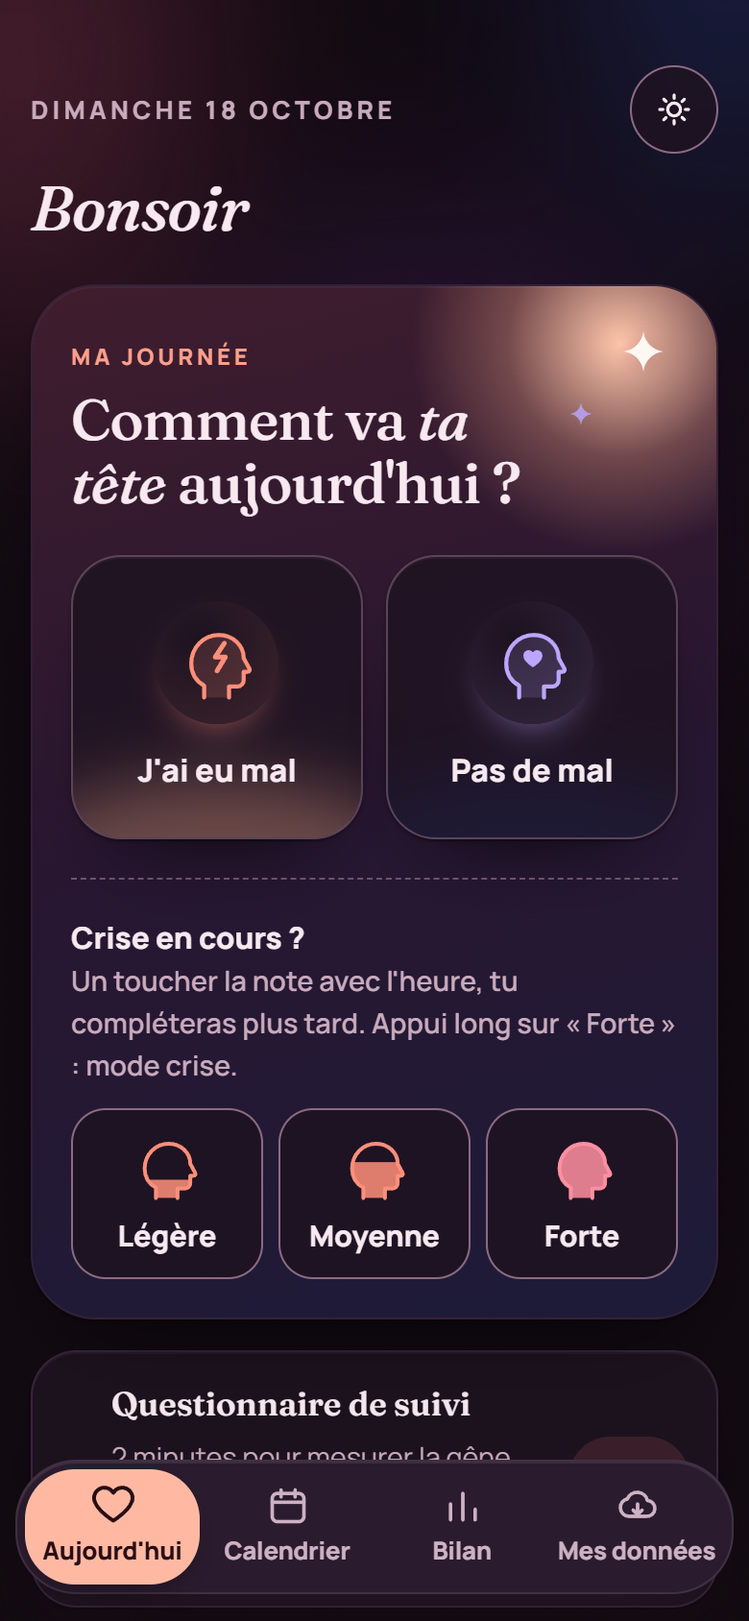
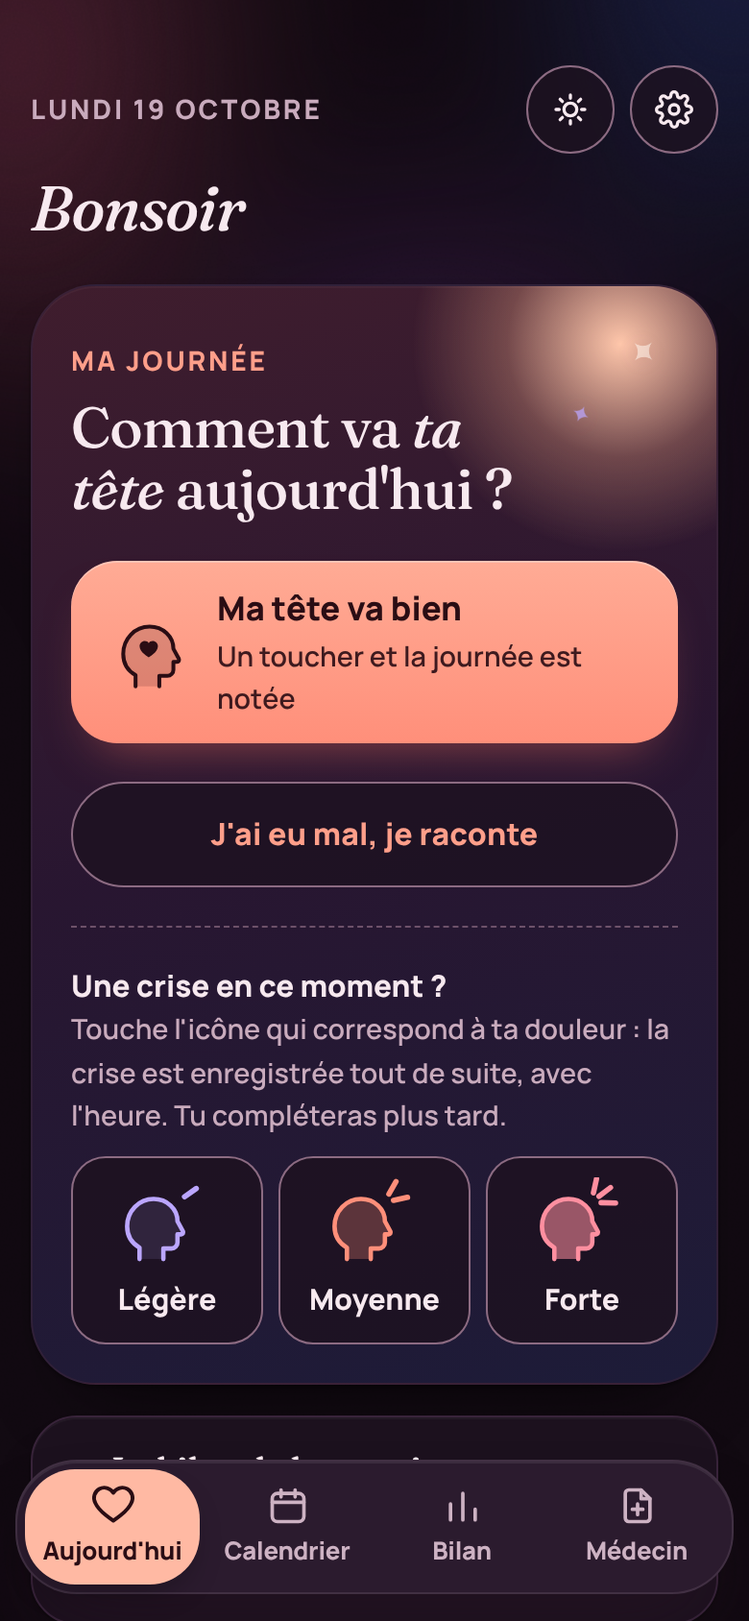
Documentation et captures à jour pour la 2.4.0
- README : captures et fonctionnalités réécrites (accueil, crise rapide,
  mode crise, notifications 2 h après, formulaire, bilan précis, onglet
  Médecin, réglages et journée type), permissions, code natif, tests
- 10 captures (4 nouvelles : graphique du bilan, cycle, Médecin, réglages),
  données fictives
- Détail d'un jour : caractères de la douleur sur une ligne à part ;
  repère du jour en cours retiré du graphique serré du mois

Claude-Session: https://claude.ai/code/session_01EseQNERKuR5XFtPmEeSxNc

diff --git a/www/index.html b/www/index.html
@@ -591,7 +591,7 @@ nav.tabs .in.nocur::before{opacity:0}
 .z1{background:color-mix(in srgb,var(--p-low) 18%,transparent)}
 .dchart .cols{grid-column:2;display:flex;align-items:flex-end;gap:3px;padding:0 3px}
 .dchart .cols > *{flex:1;min-width:0;height:100%;display:flex;flex-direction:column;justify-content:flex-end;align-items:center;position:relative;background:none;border:0;padding:0;font:inherit;color:inherit;border-radius:8px}
-.dchart .cols > .now{box-shadow:inset 0 0 0 2px var(--accent-bg)}
+.dchart:not(.dense) .cols > .now{box-shadow:inset 0 0 0 2px var(--accent-bg)}
 .dchart .b{width:100%;max-width:26px;border-radius:7px 7px 3px 3px;transform-origin:bottom;animation:grow .7s var(--spring) both}
 .b.lv1{background:color-mix(in srgb,var(--p-mid) 50%,var(--surface))}.b.lv2{background:var(--p-mid)}.b.lv3{background:var(--p-high)}
 .dchart .v{font-size:.8125rem;font-weight:800;font-variant-numeric:tabular-nums;margin-bottom:3px}
@@ -1368,7 +1368,9 @@ function dayDetailHtml(e){
     const fin=endTime(e.start,e.duration);if(fin)tl.push([fin.next?"24:00":fin.t,"Fin de la crise",fin.next?`le lendemain à ${fin.t}`:""]);
     if(!e.start){sec.crise.push(["Début","Heure non notée"]);if(e.duration!=="")sec.crise.push(["Durée",`${f1(e.duration)} h`])}
     if(e.zones.length)sec.crise.push(["Où",e.zones.join(", "),1]);
-    if((e.symptoms||[]).length)sec.crise.push(["Autres signes",e.symptoms.map(symLabel).join(", "),1]);
+    const pk=(e.symptoms||[]).filter(x=>PAINK.includes(x)),ot=(e.symptoms||[]).filter(x=>!PAINK.includes(x));
+    if(pk.length)sec.crise.push(["Douleur",pk.join(", "),1]);
+    if(ot.length)sec.crise.push(["Autres signes",ot.map(symLabel).join(", "),1]);
     ms.forEach((m,i)=>{const lab=ms.length>1?`Médicament ${i+1}`:"Médicament";
       if(m.time)tl.push([m.time,m.name,effTxt(m)]);else sec.crise.push([lab,[m.name,effTxt(m)].filter(Boolean).join(" · "),1])});
     if(!ms.length)sec.crise.push(["Médicament","Aucun",1]);

diff --git a/README.md b/README.md
@@ -47,13 +47,19 @@ Noter sa journée en quelques touchers, voir le bilan de la semaine et du mois, 
 ## Captures d'écran
 
 <p align="center">
-  <img src="docs/captures/accueil.png" alt="Accueil : la question « Comment va ta tête aujourd'hui ? », les tuiles J'ai eu mal et Pas de mal, et la crise rapide en un toucher" width="200">
-  <img src="docs/captures/formulaire.png" alt="Formulaire, étape La crise : heure de début, durée, zones, signes et plusieurs médicaments avec leur heure" width="200">
-  <img src="docs/captures/jour.png" alt="Détail d'un jour : la journée heure par heure, puis toutes les infos par thème" width="200">
+  <img src="docs/captures/accueil.png" alt="Accueil : « Comment va ta tête aujourd'hui ? », le bouton Ma tête va bien, J'ai eu mal, et la crise rapide avec trois têtes (1, 2 ou 3 traits de douleur)" width="200">
+  <img src="docs/captures/formulaire.png" alt="Formulaire, étape La crise : le médicament pris, son heure, la question « 2 h après la prise ? », les médicaments habituels à ajouter d'un toucher, et le bouton Enregistrer" width="200">
+  <img src="docs/captures/jour.png" alt="Détail d'un jour : la journée heure par heure, puis une liste par thème (où, douleur, autres signes, médicament, repas)" width="200">
+  <img src="docs/captures/crise.png" alt="Mode crise : écran noir, temps écoulé depuis le début de la crise, boutons J'ai pris pour les médicaments habituels, Ma crise est finie" width="200">
 </p>
 <p align="center">
-  <img src="docs/captures/bilan.png" alt="Bilan du mois : résumé, puis « En bref » avec les pistes en phrases simples" width="200">
-  <img src="docs/captures/crise.png" alt="Mode crise : écran noir, sans animation, gros boutons" width="200">
+  <img src="docs/captures/bilan.png" alt="Bilan du mois : anneau de synthèse, tendance, force moyenne, puis En bref" width="200">
+  <img src="docs/captures/bilan-graphique.png" alt="Bilan : graphique jour par jour en bandes léger, moyen, fort, avec les jours de médicament, puis les jours de mal par mois et la ligne des 15 jours" width="200">
+  <img src="docs/captures/bilan-cycle.png" alt="Bilan : autour des règles cycle par cycle, puis les crises qui ont les signes de la migraine" width="200">
+</p>
+<p align="center">
+  <img src="docs/captures/medecin.png" alt="Onglet Médecin : prochain et dernier rendez-vous, résumé depuis le dernier, questions à poser" width="200">
+  <img src="docs/captures/reglages.png" alt="Réglages : la journée type notée d'office avec Ma tête va bien" width="200">
   <img src="docs/captures/accueil-nuit.png" alt="Accueil en mode nuit" width="200">
 </p>
 
@@ -61,67 +67,79 @@ Noter sa journée en quelques touchers, voir le bilan de la semaine et du mois, 
 
 ## Pourquoi cette appli
 
-Un médecin a besoin de savoir **à quelle fréquence** surviennent les maux de tête, **avec quelle force**, **quels médicaments** ont été pris et **ce qui les déclenche**. Ces informations s'oublient vite : l'appli permet de les noter chaque jour en moins d'une minute, et de les retrouver sous forme de bilans et d'un rapport prêt à imprimer.
+Un médecin a besoin de savoir **à quelle fréquence** surviennent les maux de tête, **avec quelle force**, **quels médicaments** ont été pris, **s'ils ont marché** et **ce qui les déclenche**. Ces informations s'oublient vite : l'appli permet de les noter chaque jour en quelques secondes, et de les retrouver sous forme de bilans et d'un rapport prêt pour le rendez-vous.
 
 Tout reste sur le téléphone : pas de compte, pas de serveur, pas d'abonnement.
 
 ## Fonctionnalités
 
 ### Noter sa journée
-- **Accueil en une question** : « Comment va ta tête aujourd'hui ? ». **Ma tête va bien** note la journée d'un seul toucher, sans formulaire (*Compléter* reste possible). *J'ai eu mal, je raconte* ouvre le formulaire. Une fois la journée notée, elle se retrouve dans *Ma semaine*, qui la rouvre d'un toucher.
-- **Jour oublié** : *Ma semaine* signale le dernier jour pas noté (« Samedi n'est pas noté : le noter »).
-- **Crise rapide** : un toucher sur *Légère*, *Moyenne* ou *Forte* (une tête qui se remplit comme une jauge) note la crise avec l'heure. On complète plus tard. Bouton **Annuler** et **Retirer cette crise** en cas d'erreur.
-- **Mode crise** : *Forte* (ou *Passer en mode crise*) note la crise et passe l'appli en noir profond, sans animation, avec de gros boutons et l'essentiel seulement : le temps écoulé depuis le début de la crise, et **J'ai pris** pour noter un médicament habituel d'un toucher, avec l'heure et la prochaine prise possible.
-- **Widget et raccourcis Android** : le widget « Ma tête aujourd'hui » (Ma tête va bien, Légère, Moyenne, Forte) et l'appui long sur l'icône (*Crise forte*, *J'ai pris un médicament*, *Noter ma journée*) notent sans chercher l'appli. La notification « Ta crise est-elle finie ? » propose aussi *J'ai pris…*.
-- **Fin de crise en un toucher** : *Ma crise est finie* calcule la durée. Une notification « Ta crise est-elle finie ? » arrive 2 h après une crise rapide, avec *Oui, c'est fini* ou *Pas encore* (nouveau rappel 1 h plus tard).
-- **Comme d'habitude** : remplit les cases vides (repas, eau, café, sommeil, écrans, lunettes) d'après les 14 derniers jours.
-- **Formulaire pas à pas** (4 à 5 écrans courts, avec barre de progression), avec **Enregistrer** à chaque étape : rien n'oblige à aller au bout.
-  - la tête : mal ou pas, force de 1 à 10 sur un curseur ;
-  - la crise : d'abord les médicaments pris (avec, pour chacun, **2 h après la prise : plus de douleur / mieux / pareil**) (les habituels s'ajoutent d'un toucher avec l'heure, autant que nécessaire, avec l'efficacité de chacun), puis heure de début, durée, zones douloureuses, **comment est la douleur** (d'un seul côté, qui bat, pire en bougeant, aura), et les autres signes repliés (nausées, vomissements, lumière, bruit…) ;
-  - les repas : petit-déjeuner, midi, soir (avec l'heure si on veut), cafés ou thés, verres d'eau ;
-  - la journée : port des lunettes, sommeil, temps d'écran, stress, cycle (avec le **1er jour des règles**) ;
-  - pour finir : questions personnelles et notes libres.
-- **Écart entre deux prises** : pour chaque médicament, l'écart minimum (notice ou médecin). L'accueil affiche « prochaine prise possible vers 21 h » et une notification prévient à l'heure.
-- **Questions perso** : ajouter ses propres questions (*Sport aujourd'hui ?*), en Oui/Non ou réponse écrite. Les Oui/Non sont comparées dans le bilan.
+- **Accueil en une question** : « Comment va ta tête aujourd'hui ? ».
+  - **Ma tête va bien** note la journée d'un seul toucher, sans formulaire, avec la **journée type** (voir Réglages). *Modifier* ou *Compléter* reste possible juste après.
+  - **J'ai eu mal, je raconte** ouvre le formulaire.
+  - **Jour oublié** : *Ma semaine* signale le dernier jour pas noté (« Samedi n'est pas noté : le noter »).
+- **Crise rapide** : on touche l'icône qui correspond à sa douleur (*Légère*, *Moyenne* ou *Forte* : une tête avec 1, 2 ou 3 traits de douleur). La crise est enregistrée tout de suite avec l'heure, on complète plus tard. *Annuler* et *Retirer cette crise* en cas d'erreur.
+- **Mode crise** : *Forte* (ou *Passer en mode crise*) passe l'appli en noir profond, sans animation, avec de gros boutons et l'essentiel :
+  - le temps écoulé depuis le début de la crise ;
+  - **J'ai pris** : les médicaments habituels se notent d'un toucher, avec l'heure, l'heure de la dernière prise et la prochaine prise possible ;
+  - **Ma crise est finie** calcule la durée.
+- **Notifications** :
+  - « Ta crise est-elle finie ? » 2 h après une crise rapide, avec *Oui, c'est fini*, *Pas encore* (nouveau rappel 1 h plus tard) ou *J'ai pris…* ;
+  - **2 h après chaque prise** : « Comment va ta tête ? » avec *Plus de douleur*, *Mieux* ou *Pareil* (la mesure utilisée dans les essais sur la migraine). Si elle est manquée, la question attend sur l'accueil ;
+  - prochaine prise possible, d'après l'**écart entre deux prises** réglé pour chaque médicament (notice ou médecin) ;
+  - rappel du soir, seulement si la journée n'est pas notée.
+- **Widget et raccourcis Android** : le widget « Ma tête aujourd'hui » (*Ma tête va bien*, *Légère*, *Moyenne*, *Forte*) et l'appui long sur l'icône (*Crise forte*, *J'ai pris un médicament*, *Noter ma journée*) notent sans chercher l'appli.
+- **Formulaire pas à pas** (4 à 5 écrans courts, avec barre de progression). **Enregistrer** à chaque étape : rien n'oblige à aller au bout.
+  - la tête : mal ou pas, force de 1 à 10 ;
+  - la crise :
+    - d'abord **ce qui a été pris** : les médicaments habituels s'ajoutent d'un toucher avec l'heure, autant que nécessaire, et pour chacun **2 h après la prise : plus de douleur, mieux ou pareil** ;
+    - puis heure de début, durée, zones douloureuses ;
+    - **comment est la douleur** : d'un seul côté, qui bat, pire en bougeant, aura avant la douleur ;
+    - les autres signes, repliés : nausées, vomissements, gêne à la lumière ou au bruit, troubles de la vue, vertiges, grande fatigue ;
+  - les repas : petit-déjeuner, midi, soir (avec l'heure si on veut), cafés ou thés, verres d'eau. **Comme d'habitude** remplit les cases vides avec la journée type, puis d'après les 14 derniers jours ;
+  - la journée : lunettes, sommeil, écrans, stress, cycle (avec le **1er jour des règles**) ;
+  - pour finir : questions perso et notes libres.
+- **Questions perso** : ajouter ses propres questions (*Sport aujourd'hui ?*, *Cachet aujourd'hui ?*), en Oui/Non ou réponse écrite. Les Oui/Non sont comparées dans le bilan et peuvent faire partie de la journée type.
 
 ### Voir et comprendre
-- **2 h après chaque prise** : une notification demande « Comment va ta tête ? » avec *Plus de douleur*, *Mieux* ou *Pareil* (c'est la mesure utilisée dans les essais sur la migraine). Si elle est manquée, la question attend sur l'accueil.
-- **Calendrier** coloré : chaque jour est une petite jauge qui se remplit selon la force de la douleur (léger 1/3, moyen 2/3, fort plein). Un toucher ouvre le détail complet du jour : la journée **heure par heure** (repas, début et fin de crise, chaque prise de médicament), puis toutes les autres infos par thème. À modifier ou supprimer.
-- **Bilan de la semaine et du mois** :
-  - anneau de synthèse et phrase (*« Une semaine plutôt calme »*) ;
-  - **tendance** par rapport à la période d'avant ;
-  - force moyenne, durée de douleur, sommeil moyen ;
-  - graphique jour par jour ;
-  - **jours de mal par mois** sur 6 mois, avec la ligne des 15 jours ; alerte si 15 jours ou plus par mois 3 mois de suite (seuil de la céphalée chronique, ICHD-3) ;
-  - **signes de la migraine** : combien de crises décrites réunissent les critères ICHD-3 (au moins 2 caractères de la douleur, plus nausées ou gêne à la lumière et au bruit, sur 4 à 72 h), et combien avec aura ;
-  - **autour des règles** : crise entre 2 jours avant et 3 jours après le 1er jour des règles, cycle par cycle, et jours avec mal dans cette fenêtre comparés au reste du cycle ;
-  - **médicaments** : efficacité 2 h après la prise, et **récurrence** (douleur revenue dans les 48 h après un médicament qui a marché) ;
-  - **piste encore faible** : affiché quand une piste repose sur moins de 8 jours d'un côté ;
-  - **En bref** : les pistes les plus nettes dites en phrases simples (« Tu as plus souvent mal quand tu dors moins de 7 h », « 3 jours sur 4 ») ;
-  - **situation par situation** : jours avec mal selon le sommeil, les lunettes, le stress, l'eau, les écrans, le café, le cycle et les questions perso ;
-  - aliments les plus fréquents les jours de mal, zones, signes, médicaments.
+- **Calendrier** coloré : chaque jour est une petite jauge qui se remplit selon la force de la douleur (léger 1/3, moyen 2/3, fort plein). Un toucher ouvre le détail du jour : la journée **heure par heure** (repas, début et fin de crise, chaque prise), puis une liste par thème. À modifier ou supprimer.
+- **Bilan de la semaine, du mois ou de 3 mois** :
+  - anneau de synthèse et phrase (*« Un mois plutôt calme »*), **tendance** par rapport à la période d'avant, force moyenne, heures de douleur, sommeil moyen ;
+  - **En bref** : les pistes les plus nettes en phrases simples (« Tu as plus souvent mal quand tu dors moins de 7 h », « 6 jours sur 6 »). **Piste encore faible** est affiché quand une piste repose sur moins de 8 jours d'un côté ;
+  - **jour par jour** : une barre par crise dans sa bande (léger, moyen, fort), un rond pour les jours sans mal de tête, une capsule sous les jours avec médicament, et le décompte par force. Sur 3 mois, une barre par semaine ;
+  - **jours de mal par mois** sur 6 mois, avec la ligne des 15 jours et le nombre de jours notés. Alerte si 15 jours ou plus par mois 3 mois de suite (seuil de la céphalée chronique, classification ICHD-3) ;
+  - **moment des crises** et **situation par situation** : sommeil, lunettes, stress, eau, écrans, café, cycle et questions perso ;
+  - **autour des règles** : crise entre 2 jours avant et 3 jours après le 1er jour des règles, cycle par cycle, et jours avec mal dans cette fenêtre comparés au reste du cycle (migraine menstruelle : au moins 2 cycles sur 3) ;
+  - **aliments à surveiller** : seulement ceux qui reviennent nettement plus souvent les jours de mal ;
+  - **où et comment** : combien de crises décrites réunissent les **critères ICHD-3 de la migraine** (au moins 2 caractères de la douleur, plus nausées ou gêne à la lumière et au bruit, sur 4 à 72 h), combien avec aura, zones et signes ;
+  - **médicaments** : jours de prise face aux seuils d'alerte, efficacité **2 h après la prise**, **récurrence** (douleur revenue dans les 48 h après un médicament qui a marché), délai moyen entre le début de la crise et la prise.
 - **Questionnaire MIDAS** (gêne au quotidien sur 3 mois, utilisé par les neurologues) : proposé tous les 3 mois, score, grade et historique dans le bilan et le rapport.
-- **Alerte médicaments** : bandeau si les prises dépassent les seuils de surveillance de l'abus médicamenteux (classification ICHD-3 : 10 jours par mois pour les triptans, 15 pour les antidouleurs simples).
+- **Alerte médicaments** sur l'accueil si les prises approchent ou dépassent les seuils de surveillance de l'abus médicamenteux (ICHD-3 : 10 jours par mois pour les triptans, 15 pour les antidouleurs simples).
 
-### Pour le médecin et la sauvegarde
-- **Onglet Médecin** : dates du prochain et du dernier rendez-vous, résumé depuis le dernier rendez-vous (jours avec mal, force moyenne, jours de médicament), et **questions à poser** notées au fil des jours. *Le rendez-vous a eu lieu* range les questions cochées et fait repartir le résumé de cette date.
-- **Rapport PDF** depuis le dernier rendez-vous, sur 1, 3, 6, 12 mois ou tout l'historique, avec les questions pas encore cochées à la fin. Il reprend les points d'attention (15 jours par mois, médicaments), les crises avec les signes de la migraine, l'efficacité à 2 h et les récurrences, la fenêtre des règles et la fiabilité de chaque facteur : résumé, mois par mois, jauge des médicaments vers les seuils d'alerte, délai de prise, moment des crises, facteurs observés, aliments à surveiller, historique MIDAS, détail de chaque crise.
+Le bilan observe, il ne diagnostique pas : chaque critère médical est présenté comme un repère à discuter avec le médecin.
+
+### Pour le médecin
+- **Onglet Médecin** : dates du prochain et du dernier rendez-vous, résumé depuis le dernier (jours avec mal, force moyenne, jours de médicament dont triptan), et **questions à poser** notées au fil des jours. *Le rendez-vous a eu lieu* range les questions cochées et fait repartir le résumé de cette date.
+- **Rapport PDF**, depuis le dernier rendez-vous, sur 1, 3, 6, 12 mois ou tout l'historique :
+  - résumé, crises avec les signes de la migraine (et avec aura), **points d'attention** (15 jours par mois, médicaments) ;
+  - mois par mois, jauge des médicaments vers les seuils, efficacité **2 h après la prise**, récurrences, délai de prise ;
+  - moment des crises, facteurs observés avec leur **fiabilité**, fenêtre des règles, aliments, MIDAS ;
+  - détail de chaque crise, et les questions pas encore cochées à la fin.
 - **Tableau** (CSV, s'ouvre dans Excel ou Google Sheets).
-- **Sauvegarde automatique** : à chaque note, une copie complète (plus celle de la veille) est écrite dans le dossier privé de l'appli. Android l'envoie dans la sauvegarde Google du téléphone, sans que l'appli ait besoin d'Internet. Si l'appli perd ses notes (nouveau téléphone, données effacées), elle les retrouve toute seule au démarrage, sans jamais remplacer un jour plus récent.
-- **Sauvegarde sur Drive** en un fichier, envoyé via le menu de partage Android (Drive, Gmail, WhatsApp…), rappelée chaque semaine. **Restauration** depuis ce fichier ou un texte collé, sans jamais écraser un jour plus récent.
-- **Rappel de sauvegarde** sur l'accueil si la dernière copie envoyée sur Drive date de plus de 7 jours.
 
 ### Réglages (roue dentée sur l'accueil)
-- **L'appli et toi** : prénom, petit nom, **les mots pour toi** (neutre par défaut, au féminin ou au masculin : « Très stressée », « Gênée par la lumière ») et **le ton** (sobre par défaut, ou tendre : « Coucou mon amour, tu as noté ta journée ? »). Un aperçu montre le rappel du soir. Ce qui est enregistré reste toujours la forme neutre : changer de réglage ne touche pas aux notes ni au bilan.
-
-### Confort
-- **Rappel du soir** (notification, 21 h par défaut, heure réglable) : seulement si la journée n'est pas encore notée.
-- **Mode nuit** en un toucher, utile quand la lumière fait mal.
-- **Bouton retour d'Android** géré : il recule dans l'appli au lieu de la fermer.
+- **L'appli et toi** : prénom, petit nom, **les mots pour toi** (neutre par défaut, au féminin ou au masculin : « Très stressée », « Gênée par la lumière ») et **le ton** (sobre par défaut, ou tendre : « Coucou mon amour, tu as noté ta journée ? »). Un aperçu montre le rappel du soir. Ce qui est enregistré reste toujours la forme neutre : changer de réglage ne touche ni aux notes ni au bilan.
+- **Ma journée type** : lunettes, sommeil, eau, cafés, écrans, stress, cycle, repas et questions Oui/Non notés d'office avec *Ma tête va bien* (et le widget), sans jamais remplacer une réponse déjà donnée. Option : compléter le reste d'après les 14 derniers jours.
+- **Rappel du soir** (21 h par défaut, heure réglable), **écart entre deux prises**, **questions perso**.
+- **Sauvegarde** :
+  - **automatique** : à chaque note, une copie complète (plus celle de la veille) est écrite dans le dossier privé de l'appli. Android l'envoie dans la sauvegarde Google du téléphone, sans que l'appli ait besoin d'Internet. Si l'appli perd ses notes (nouveau téléphone, données effacées), elle les retrouve toute seule au démarrage, sans jamais remplacer un jour plus récent ;
+  - **sur Drive** en un fichier, envoyé via le menu de partage Android (Drive, Gmail, WhatsApp…), rappelée sur l'accueil chaque semaine. **Restauration** depuis ce fichier ou un texte collé, sans jamais écraser un jour plus récent.
 - **Tout effacer**, protégé par une confirmation à taper.
 
-### Accessibilité
-Libellés d'au moins 14 px, contrastes vérifiés (au moins 4,5:1 pour le texte et 3:1 pour les contours des éléments interactifs), grandes zones à toucher, compatible avec le lecteur d'écran TalkBack, information jamais portée par la couleur seule, animations coupées si le téléphone le demande.
+### Confort et accessibilité
+- **Mode nuit** en un toucher, utile quand la lumière fait mal.
+- **Bouton retour d'Android** géré : il recule dans l'appli au lieu de la fermer.
+- Libellés d'au moins 14 px, contrastes vérifiés (au moins 4,5:1 pour le texte et 3:1 pour les contours des éléments interactifs), zones à toucher de 44 px au moins, compatible avec le lecteur d'écran TalkBack, information jamais portée par la couleur seule, animations coupées si le téléphone le demande.
 
 ## Vie privée et données
 
@@ -130,7 +148,7 @@ Libellés d'au moins 14 px, contrastes vérifiés (au moins 4,5:1 pour le texte 
 | **Où sont les notes ?** | Dans le téléphone, dans l'espace privé de l'appli. Aucun serveur, aucun compte. |
 | **Connexion internet** | Aucune : l'appli n'a pas la permission Internet, Android lui interdit toute connexion. |
 | **Compte, publicité, statistiques** | Aucun. |
-| **Permissions demandées** | Notifications (rappel du soir, fin de crise, prochaine prise), réveil et redémarrage du téléphone (pour que les rappels survivent à un redémarrage). |
+| **Permissions demandées** | Notifications (rappel du soir, fin de crise, 2 h après une prise, prochaine prise), réveil et redémarrage du téléphone (pour que les rappels survivent à un redémarrage). Le widget n'affiche que des boutons : il ne lit aucune note. |
 | **Sauvegarde Google du téléphone** | L'appli écrit une copie de ses notes dans son dossier privé à chaque changement. Si la sauvegarde Google est activée (Réglages › Google › Sauvegarde, en général activée par défaut), Android l'envoie chiffrée dans le compte Google, environ une fois par jour (en Wi-Fi, téléphone en charge). Sur un nouveau téléphone, en réinstallant l'appli avec le même compte, les notes reviennent. L'appli elle-même n'envoie rien. |
 | **Si le téléphone casse** | Deux protections indépendantes : la sauvegarde Google automatique, et les copies envoyées sur Drive chaque semaine. La seconde marche même si la sauvegarde Google est désactivée. |
 
@@ -144,7 +162,7 @@ Libellés d'au moins 14 px, contrastes vérifiés (au moins 4,5:1 pour le texte 
 4. **Vérifier la sauvegarde Google** (une fois) : *Réglages* › *Google* › *Sauvegarde* (selon les téléphones : *Système* › *Sauvegarde*), « Sauvegarde par Google One » activée. C'est elle qui emporte la copie automatique hors du téléphone.
 5. **Nouveau téléphone** : se connecter au même compte Google, installer l'APK, ouvrir l'appli. Si Android a remis la copie automatique, l'appli retrouve les notes toute seule au démarrage. Sinon : *Réglages* (roue dentée) › *Remettre une sauvegarde (fichier)* avec la dernière copie envoyée sur Drive.
 
-> **Changement de clé de signature (une seule fois)** : Android refuse d'installer un APK signé avec une autre clé par-dessus l'appli déjà installée. Dans l'ancienne appli : *Mes données* → *Faire une sauvegarde* (l'envoyer sur Drive ou par mail). Désinstaller, installer le nouvel APK, puis *Mes données* → *Remettre une sauvegarde (fichier)*. Les mises à jour suivantes, signées avec la même clé, s'installent de nouveau par-dessus.
+> **Changement de clé de signature (une seule fois)** : Android refuse d'installer un APK signé avec une autre clé par-dessus l'appli déjà installée. Dans l'ancienne appli : *Mes données* → *Faire une sauvegarde* (l'envoyer sur Drive ou par mail). Désinstaller, installer le nouvel APK, puis *Réglages* (roue dentée) → *Remettre une sauvegarde (fichier)*. Les mises à jour suivantes, signées avec la même clé, s'installent de nouveau par-dessus.
 
 **Version de test** : à chaque push sur une branche autre que `main`, GitHub Actions fabrique un APK de test (onglet *Actions* › *APK de test* › *Artifacts* › `mon-journal-test-apk`). Il s'appelle « Mon Journal (test) » (identifiant `fr.journalmigraines.app.test`) et s'installe **à côté** de la vraie appli, avec ses propres notes : rien n'est touché. Pour y essayer ses vraies notes : *Faire une sauvegarde* dans l'appli, puis *Remettre une sauvegarde (fichier)* dans la version de test.
 
@@ -157,6 +175,7 @@ L'APK n'est pas dans le dépôt : il est joint à chaque [version publiée](http
 | Interface et logique | HTML, CSS, JavaScript, sans framework | Un seul fichier, `www/index.html` |
 | Appli Android | [Capacitor](https://capacitorjs.com) 6.2 | Enveloppe la page dans une vraie appli Android |
 | Plugins natifs | `@capacitor/app`, `filesystem`, `share`, `local-notifications` | Bouton retour, fichiers, menu de partage, rappel du soir |
+| Code natif | Java (`JournalWidget.java`), ressources Android | Widget de l'écran d'accueil, raccourcis de l'icône, liens `journalmigraines://` |
 | Stockage | `localStorage` de la WebView | Privé à l'appli, persistant |
 | PDF | jsPDF 4.2.1 + jsPDF-AutoTable 5.0.8 | Rapport pour le médecin, intégré à l'APK |
 | Polices | Fraunces (titres, chiffres) et Manrope (texte), via Fontsource | Intégrées à l'APK, aucune requête réseau |
@@ -228,7 +247,13 @@ Pour redessiner l'icône : `node scripts/icons.js` puis `npx @capacitor/assets g
 - plusieurs médicaments par jour : ancien et nouveau format lus, chaque prise comptée dans le bilan, vieilles sauvegardes restaurées sans perte ;
 - heures : fin de crise calculée (même après minuit), détail du jour rangé par heure et complet ;
 - sauvegarde automatique : copie écrite à chaque changement, notes retrouvées au démarrage, jamais au détriment d'un jour plus récent, copie de la veille si la dernière est abîmée, « Tout effacer » efface aussi les copies ;
-- remise à zéro, seuils médicaments, bilan semaine et mois.
+- remise à zéro, seuils médicaments, bilan semaine, mois et 3 mois ;
+- mots et ton : neutre et sobre par défaut, féminin, masculin, tendre avec ou sans petit nom ; symptômes notés au féminin ramenés à la forme neutre ;
+- « Ma tête va bien » en un toucher, journée type notée d'office sans remplacer une réponse donnée, jours oubliés ;
+- mode crise : médicaments habituels, « J'ai pris » et « Annuler », prochaine prise possible ;
+- liens du widget et des raccourcis (liens inconnus ignorés, même lien jamais traité deux fois) ;
+- onglet Médecin : résumé depuis le dernier rendez-vous, questions à poser, rendez-vous passé ;
+- bilan précis : jours de mal par mois et seuil des 15 jours, critères ICHD-3 de la migraine, 1ers jours des règles et fenêtre menstruelle, réponses « 2 h après », récurrences dans les 48 h, pistes encore faibles.
 
 Les tests ne remplacent pas un essai sur un vrai téléphone (affichage, menu de partage, notifications).
 
